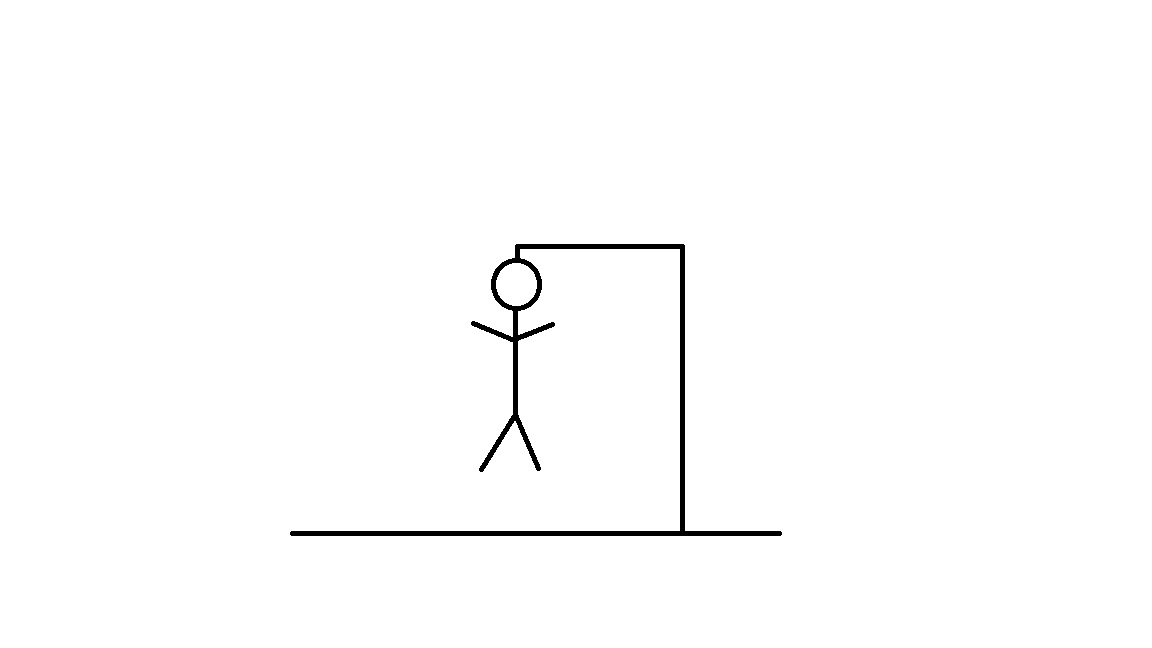
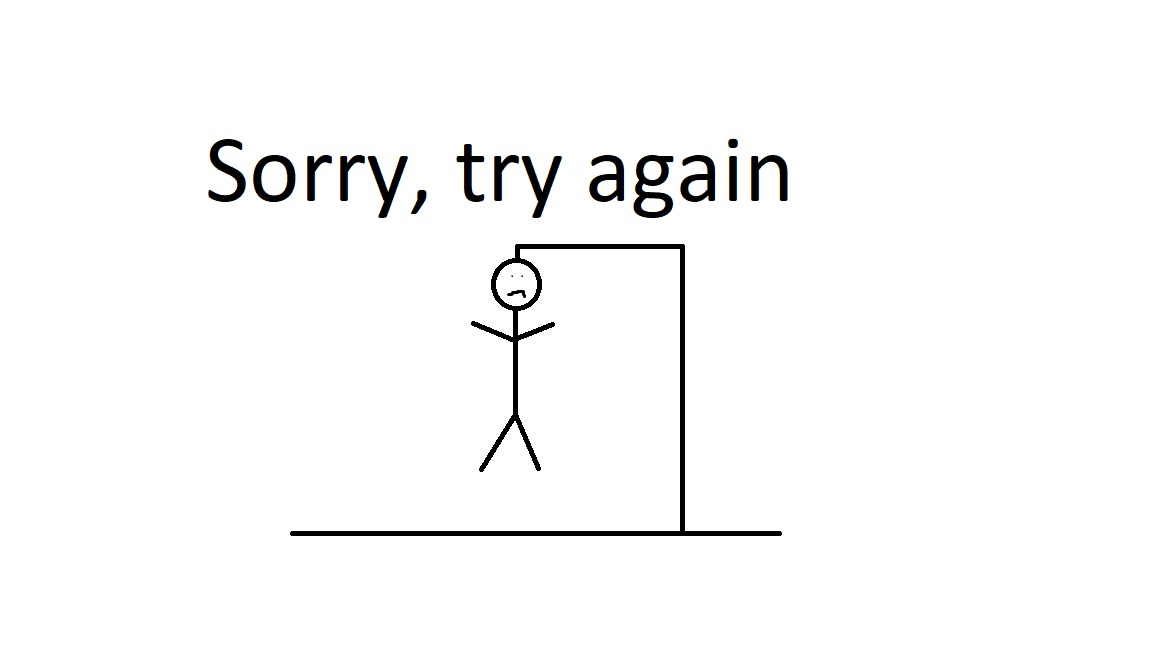
body part

Changed region(s): [[0.1562, 0.216, 0.6875, 0.3395], [0.4375, 0.4321, 0.4688, 0.463]]

diff --git a/index.js b/index.js
@@ -7,6 +7,7 @@ let answer = "";
 let guessed = [];
 let wordStatus = null;
 let bodyCount = 1;
+let freeCount = 0;
 
 // word array
 //let word = ["WRECK", "HISTORY", "APPLE", "WALRUS"];
@@ -39,22 +40,10 @@ function guessWord() {
 
 guessWord();
 
-// keyboard input
+// letter input
 function validateInput(letterSelected) {
-  //Option 1
-  // if ( answer.includes( letterSelected ) ){
-  //     if ( answer[0] === 'C') {
-  //         document.getElementById( 'letterC').innerHTML += letterSelected
-  //     } else if ( answer[1] === 'A' ) {
-  //         document.getElementById( 'letterA').innerHTML += letterSelected
-  //     } else if ( answer[2] === 'T') {
-  //         document.getElementById('letterT').innerHTML += letterSelected
-  //     }
-  // }
-
-  //Option 2
   let pos = 99;
-  //if ( answer[0] === 'C' && answer.includes( letterSelected) === true  ) {
+
   if (answer.includes(letterSelected) === true) {
     pos = answer.indexOf(letterSelected);
     console.log(answer, pos, letterSelected, "1");
@@ -63,10 +52,19 @@ function validateInput(letterSelected) {
   }
   if (pos == 0) {
     document.getElementById("letter0").innerHTML += letterSelected;
+    freeCount++;
+    console.log("freeCount" + " " + freeCount);
   } else if (pos == 1) {
     document.getElementById("letter1").innerHTML += letterSelected;
+    freeCount++;
+    console.log("freeCount" + " " + freeCount);
   } else if (pos == 2) {
     document.getElementById("letter2").innerHTML += letterSelected;
+    freeCount++;
+    console.log("freeCount" + " " + freeCount);
+  } else if (freeCount = 3) {
+    let changePic = document.getElementById("hangmanpic");
+    changePic.src = "./images/win.jpg";
   } else {
     if (bodyCount == 1) {
       let changePic = document.getElementById("hangmanpic");
@@ -75,6 +73,22 @@ function validateInput(letterSelected) {
     } else if (bodyCount == 2) {
       let changePic = document.getElementById("hangmanpic");
       changePic.src = "./images/two.jpg";
+      bodyCount++;
+    } else if (bodyCount == 3) {
+      let changePic = document.getElementById("hangmanpic");
+      changePic.src = "./images/three.jpg";
+      bodyCount++;
+    } else if (bodyCount == 4) {
+      let changePic = document.getElementById("hangmanpic");
+      changePic.src = "./images/four.jpg";
+      bodyCount++;
+    } else if (bodyCount == 5) {
+      let changePic = document.getElementById("hangmanpic");
+      changePic.src = "./images/five.jpg";
+      bodyCount++;
+    } else if (bodyCount == 6) {
+      let changePic = document.getElementById("hangmanpic");
+      changePic.src = "./images/six.jpg";
       bodyCount++;
     }
   }
